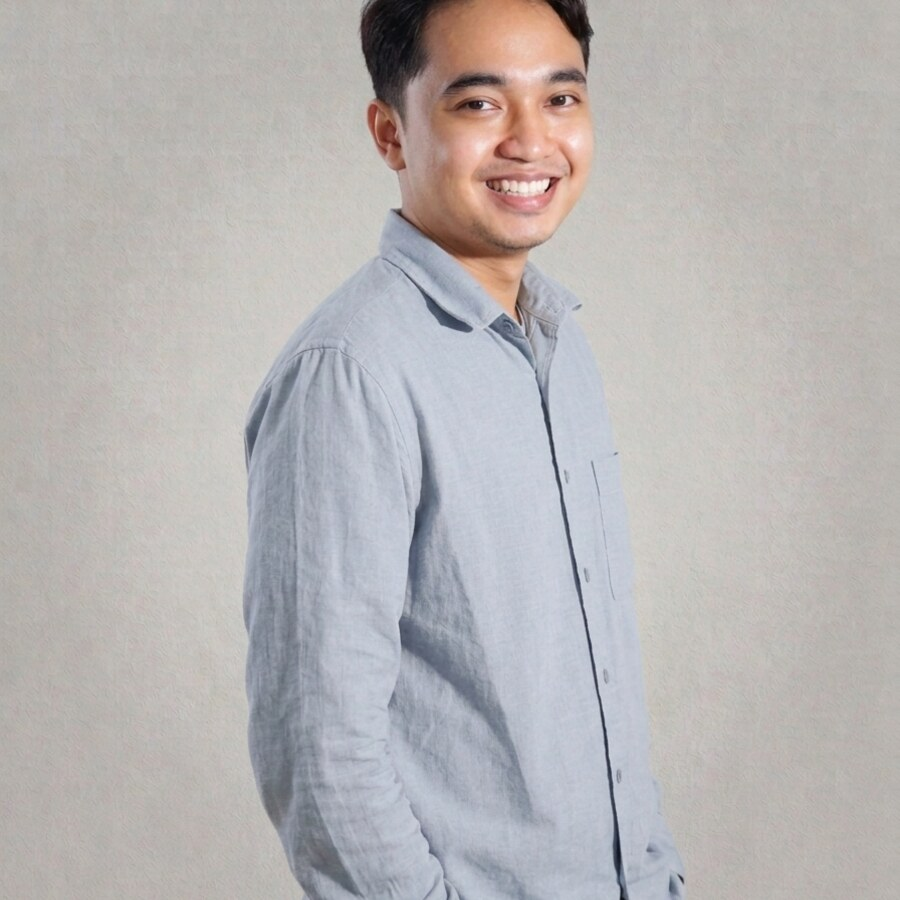
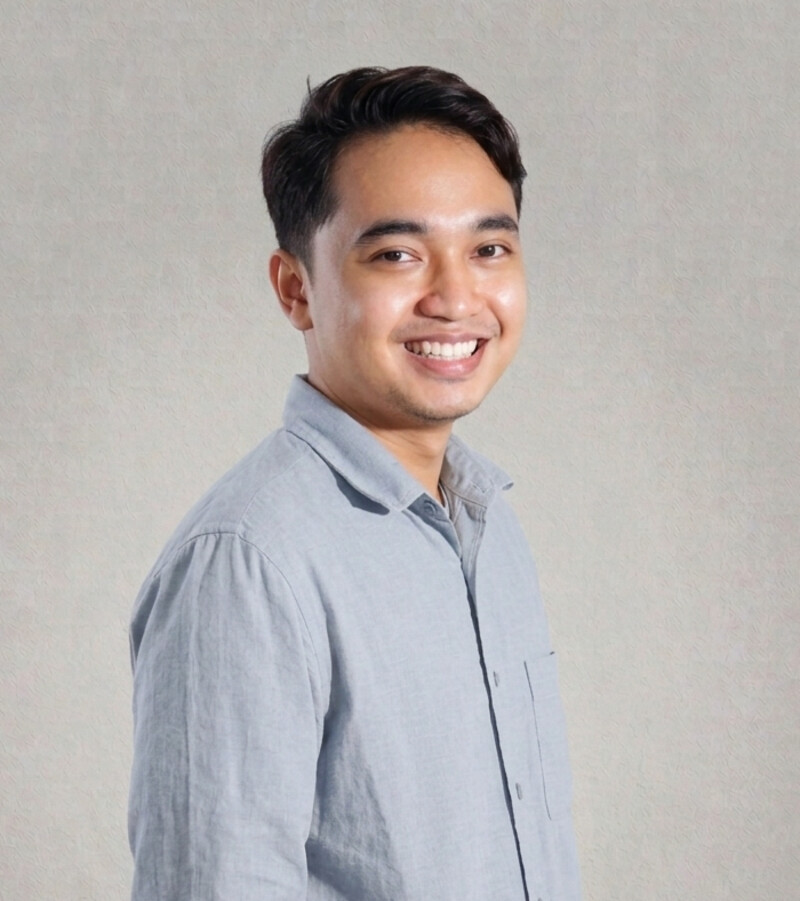
Replace hero headline with name and recrop profile photo

diff --git a/js/main.js b/js/main.js
@@ -16,7 +16,7 @@
       "nav.home":"Beranda","nav.about":"Tentang","nav.experience":"Pengalaman",
       "nav.projects":"Proyek","nav.exploration":"Eksplorasi","nav.skills":"Keahlian","nav.contact":"Kontak",
 
-      "hero.headline":"Desain antarmuka yang membuat sistem rumit terasa sederhana.",
+      "hero.headline":"Muhammad Azmy Ikhwan",
       "hero.lede":"4+ tahun merancang dashboard, wireframe, dan prototype untuk sistem manufaktur, maintenance, dan operasional harian di skala enterprise — mulai dari riset kebutuhan pengguna sampai desain yang siap dibangun tim developer.",
       "hero.ctaProjects":"Lihat proyek",
       "hero.ctaContact":"Kontak sekarang",
@@ -29,7 +29,7 @@
 
       "about.title":"Tentang saya",
       "about.p1":"Saya UI/UX Designer dengan lebih dari 4 tahun pengalaman merancang antarmuka untuk sistem enterprise — mulai dari lini produksi manufaktur, manajemen perawatan aset, hingga akses keluar-masuk perusahaan. Sebagian besar pekerjaan saya berputar di satu masalah yang sama: mengubah proses operasional yang rumit menjadi antarmuka yang bisa langsung dipahami oleh operator, teknisi, dan manajer di lapangan.",
-      "about.p2":"Saya bekerja dekat dengan Business Analyst dan tim developer sejak tahap riset kebutuhan, bukan hanya di tahap visual. Setiap wireframe dan prototype dirancang agar mudah dieksekusi oleh tim engineering tanpa banyak revisi bolak-balik — dan situs ini sendiri saya bangun dari nol untuk membuktikannya.",
+      "about.p2":"Saya bekerja dekat dengan Business Analyst dan tim developer sejak tahap riset kebutuhan, bukan hanya di tahap visual. Setiap wireframe dan prototype dirancang agar mudah dieksekusi oleh tim engineering tanpa banyak revisi bolak-balik.",
       "about.p1Title":"Riset sebelum desain",
       "about.p1Text":"Setiap alur dimulai dari kebutuhan pengguna dan proses bisnis nyata, bukan asumsi.",
       "about.p2Title":"Desain siap-bangun",
@@ -119,7 +119,7 @@
       "nav.home":"Home","nav.about":"About","nav.experience":"Experience",
       "nav.projects":"Projects","nav.exploration":"Exploration","nav.skills":"Skills","nav.contact":"Contact",
 
-      "hero.headline":"Interfaces that make complex systems feel simple.",
+      "hero.headline":"Muhammad Azmy Ikhwan",
       "hero.lede":"4+ years designing dashboards, wireframes, and prototypes for manufacturing, maintenance, and daily-operations systems at enterprise scale — from user research to build-ready design.",
       "hero.ctaProjects":"View projects",
       "hero.ctaContact":"Contact now",
@@ -132,7 +132,7 @@
 
       "about.title":"About me",
       "about.p1":"I'm a UI/UX Designer with 4+ years of experience designing interfaces for enterprise systems — from manufacturing production lines and asset maintenance to company access control. Most of my work circles one problem: turning complex operational processes into interfaces that operators, technicians, and floor managers can understand at a glance.",
-      "about.p2":"I work closely with Business Analysts and developers from the research stage onward, not just at the visual stage. Every wireframe and prototype is built so engineering teams can implement it without endless back-and-forth revisions — and I built this site itself from scratch to prove it.",
+      "about.p2":"I work closely with Business Analysts and developers from the research stage onward, not just at the visual stage. Every wireframe and prototype is built so engineering teams can implement it without endless back-and-forth revisions.",
       "about.p1Title":"Research before design",
       "about.p1Text":"Every flow starts from real user needs and business processes, not assumptions.",
       "about.p2Title":"Build-ready design",

diff --git a/index.html b/index.html
@@ -71,7 +71,7 @@
   <section class="hero" id="home">
     <div class="wrap">
       <div class="hero-text">
-        <h1 data-i18n="hero.headline">Desain antarmuka yang membuat sistem rumit terasa sederhana.</h1>
+        <h1 data-i18n="hero.headline">Muhammad Azmy Ikhwan</h1>
         <p class="lede" data-i18n="hero.lede">4+ tahun merancang dashboard, wireframe, dan prototype untuk sistem manufaktur, maintenance, dan operasional harian di skala enterprise — mulai dari riset kebutuhan pengguna sampai desain yang siap dibangun tim developer.</p>
 
         <div class="btn-row">
@@ -112,7 +112,7 @@
       <div class="about-grid">
         <div class="about-copy reveal">
           <p data-i18n="about.p1">Saya UI/UX Designer dengan lebih dari 4 tahun pengalaman merancang antarmuka untuk sistem enterprise — mulai dari lini produksi manufaktur, manajemen perawatan aset, hingga akses keluar-masuk perusahaan. Sebagian besar pekerjaan saya berputar di satu masalah yang sama: mengubah proses operasional yang rumit menjadi antarmuka yang bisa langsung dipahami oleh operator, teknisi, dan manajer di lapangan.</p>
-          <p data-i18n="about.p2">Saya bekerja dekat dengan Business Analyst dan tim developer sejak tahap riset kebutuhan, bukan hanya di tahap visual. Setiap wireframe dan prototype dirancang agar mudah dieksekusi oleh tim engineering tanpa banyak revisi bolak-balik — dan situs ini sendiri saya bangun dari nol untuk membuktikannya.</p>
+          <p data-i18n="about.p2">Saya bekerja dekat dengan Business Analyst dan tim developer sejak tahap riset kebutuhan, bukan hanya di tahap visual. Setiap wireframe dan prototype dirancang agar mudah dieksekusi oleh tim engineering tanpa banyak revisi bolak-balik.</p>
         </div>
 
         <div class="principles reveal">

diff --git a/css/style.css b/css/style.css
@@ -220,7 +220,7 @@ section + section{border-top:1px solid var(--line);}
 .hero h1{
   font-size:clamp(2.1rem, 4.6vw, 3.4rem);
   line-height:1.08; font-weight:600; letter-spacing:-.02em;
-  max-width:15ch;
+  max-width:22ch;
 }
 .hero .lede{
   margin-top:22px; font-size:1.08rem; color:var(--ink-soft); max-width:46ch;
